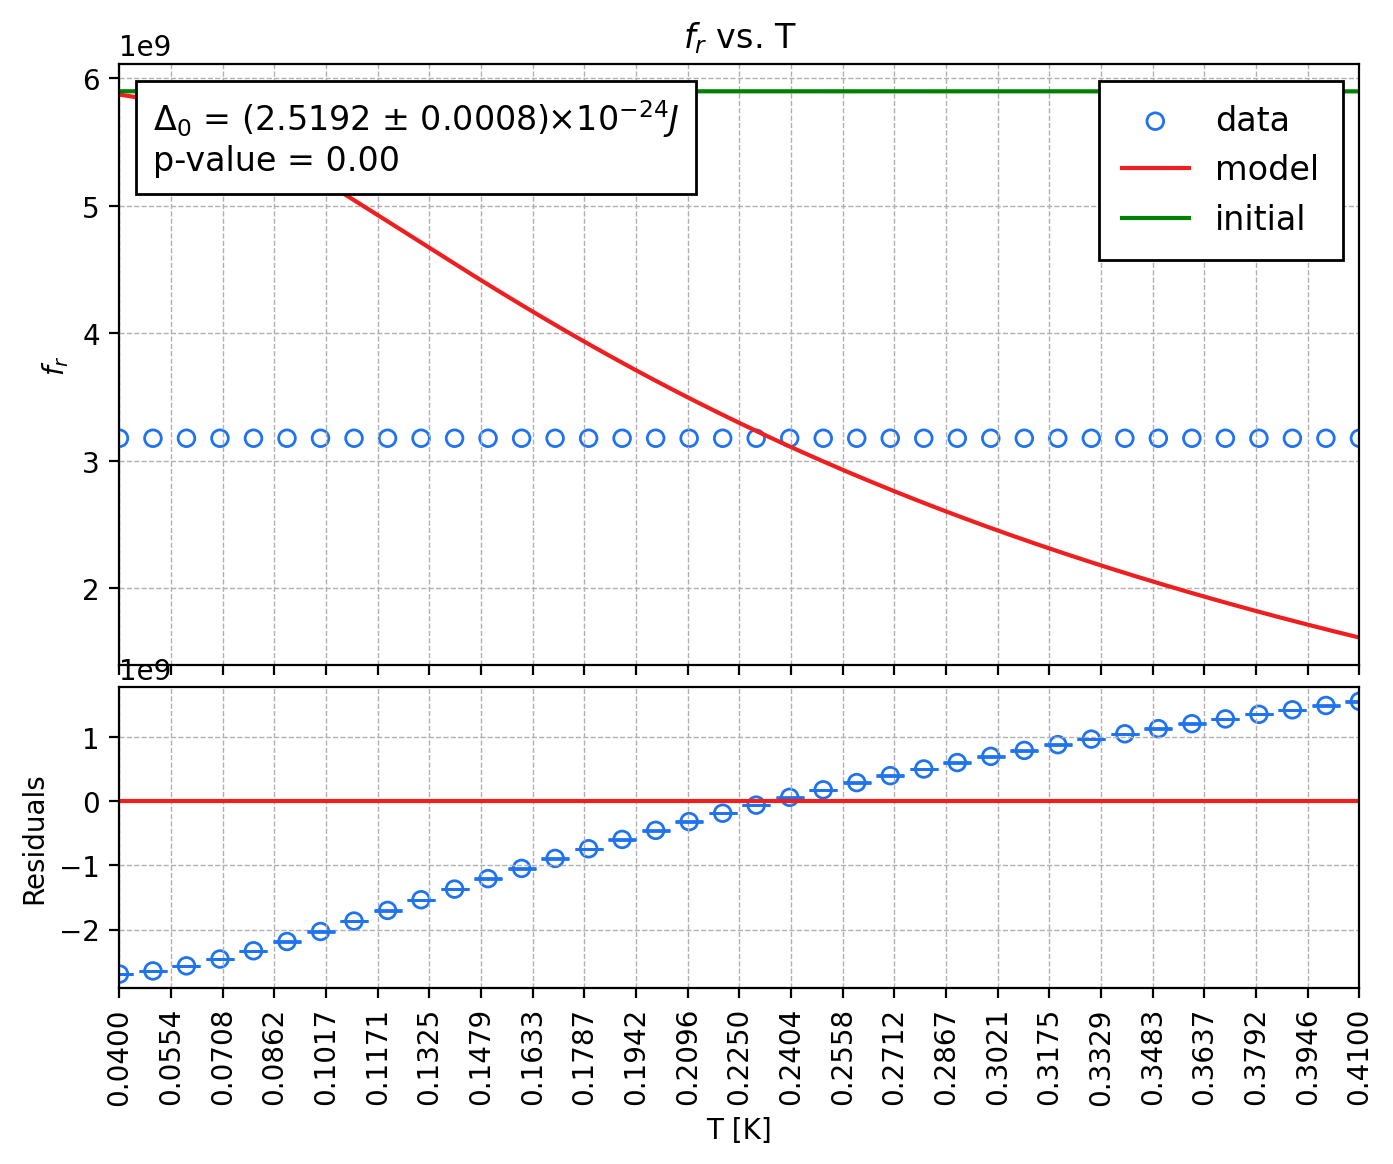
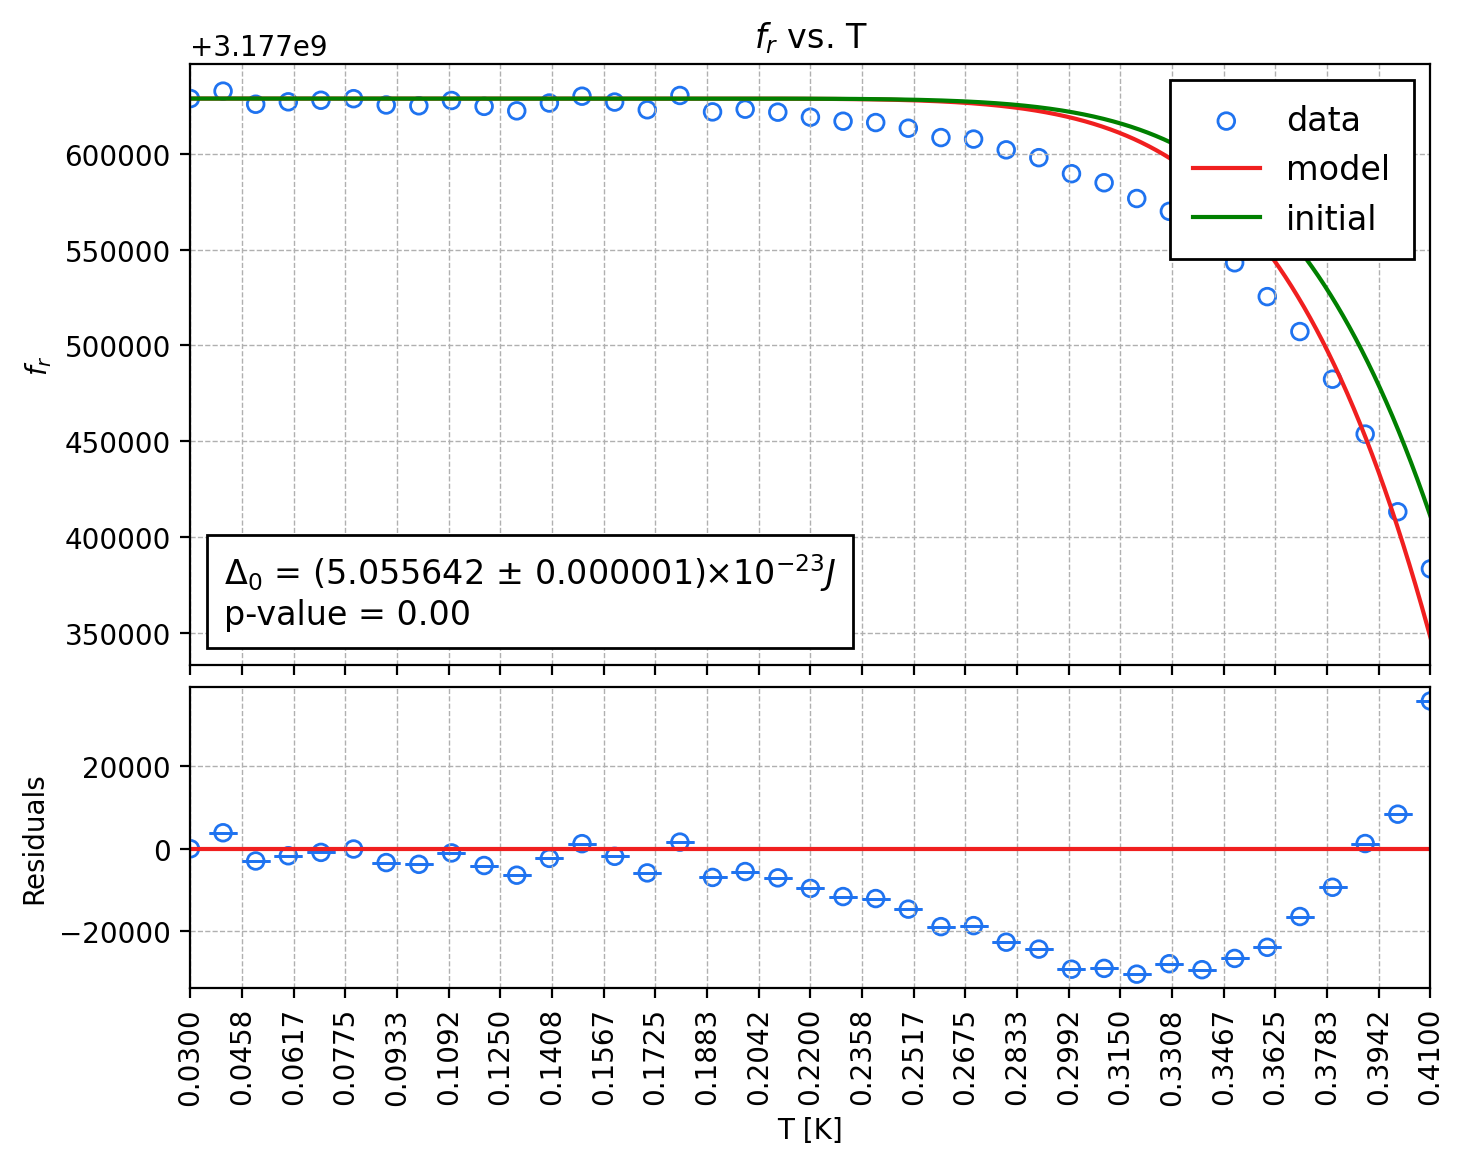
linear sampling + fit frequencies

diff --git a/3Dqubit/analysis/tangent_loss_vs_temp_fit.py b/3Dqubit/analysis/tangent_loss_vs_temp_fit.py
@@ -47,7 +47,12 @@ def model_tangent_loss(T, Delta0, alpha, Q_i0, Ts, f_rs):
 # https://arxiv.org/pdf/1709.10421
 def model_resonance_freqs(T, Delta0, alpha, f_r0, Ts, f_rs):
     f_r = f_rs[np.argmax(Ts == T)]
-    return f_r0 * (1 - 0.5*alpha * (s2(f_r, T, Delta0) - s2(f_r0, 0.01, Delta0) / s2(f_r0, 0.01, Delta0)))
+    # return f_r0 * (1 - 0.5*alpha * (s2(f_r, T, Delta0) - s2(f_r0, 0.01, Delta0)) / s2(f_r0, 0.01, Delta0))
+    return f_r0 * (1 - 0.5*alpha * abs(s2(f_r, T, Delta0) - s2(f_r0, 0.01, Delta0)) / s2(f_r0, 0.01, Delta0))
+
+def model_normalized_resonance_freqs(T, Delta0, alpha, f_r0, Ts, f_rs):
+    f_r = f_rs[np.argmax(Ts == T)]
+    return -0.5*alpha * abs(s2(f_r, T, Delta0) - s2(f_r0, 0.01, Delta0)) / s2(f_r0, 0.01, Delta0)
 
 
 fitted_freqs = np.array([])
@@ -115,14 +120,14 @@ for _ in range(0, N+1):
 
 alpha = 0.8 # kinetic inductance / total inductance
 
-'''
-# RESONANCE FREQUENCIES
 f_r0 = fitted_freqs[np.argmin(Ts)]
 
+'''
+# RESONANCE FREQUENCIES
 fitter = Fitter()
 fitter.datax = Ts
 fitter.datay = fitted_freqs
-fitter.sigmay = np.max(fitter.datay) * 0.001
+fitter.sigmay = np.max(fitter.datay) * 0 + 1
 fitter.title = "$f_r$ vs. T"
 fitter.labelx = "T [K]"
 fitter.labely = "$f_r$"
@@ -136,7 +141,27 @@ fitter.file_name = "..\\plots\\res_freqs_vs_temp_fit.png"
 res = fitter.plot_fit()
 '''
 
+# NORMALIZED RESONANCE FREQUENCIES
+fitter = Fitter()
+fitter.datax = Ts
+fitter.datay = (fitted_freqs - f_r0) / f_r0 
+fitter.sigmay = np.max(fitter.datay) * 0 + 0.001
+fitter.title = "$\\delta f_r/f_{r0}$ vs. T"
+fitter.labelx = "T [K]"
+fitter.labely = "$\\delta f_r/f_{r0}$"
+fitter.model = lambda T, Delta0: model_normalized_resonance_freqs(T, Delta0, alpha, f_r0, Ts, fitted_freqs)
+fitter.params = { "Delta0": (0, 0.52e-22, 1e-21) } # 1.5e-22 Joule = 1meV which is the typical Cooper pair energy
+fitter.param_units = { "Delta0": "J" } # Joule
+fitter.param_displayed_names = { "Delta0": "\\Delta_0" } # Joule
+fitter.show_plot = True
+fitter.show_initial_model = False
+fitter.show_model = True
+fitter.show_errorbars = False
+fitter.show_pvalue = False
+fitter.file_name = "..\\plots\\normalized_res_freqs_vs_temp_fit.png"
+res = fitter.plot_fit()
 
+'''
 # TANGENT LOSS
 fitted_Qis = (fitted_Qls * fitted_Qcs) / (fitted_Qcs - fitted_Qls)
 Q_i0 = fitted_Qis[np.argmin(Ts)]
@@ -155,3 +180,4 @@ fitter.param_displayed_names = { "Delta0": "\\Delta_0" } # Joule
 fitter.show_plot = True
 fitter.file_name = "..\\plots\\tangent_loss_vs_temp_fit.png"
 res = fitter.plot_fit()
+'''

diff --git a/3Dqubit/classes/Fitter.py b/3Dqubit/classes/Fitter.py
@@ -67,6 +67,8 @@ class Fitter():
     show_plot = False
     show_initial_model = False
     show_model = True
+    show_errorbars = True
+    show_pvalue = True
     file_name = ""
 
     def fit(self):
@@ -140,7 +142,8 @@ class Fitter():
         for key, par in res["params"].items():
             name = self.param_displayed_names[key] if key in self.param_displayed_names else key
             text += rf"${name}$ = ${number_to_text(par["value"], par["sigma"], self.param_units[key])}$" + "\n"
-        text += f"p-value = {res["pvalue"]:.2f}"
+        if self.show_pvalue: text += f"p-value = {res["pvalue"]:.2f}"
+        text = text.strip()
 
         xaxis_min, xaxis_max = first.get_xlim()
         yaxis_min, yaxis_max = first.get_ylim()
@@ -170,7 +173,7 @@ class Fitter():
         zeroy = np.zeros(len(self.datax))
         N = int(len(self.datax) / self.number_of_errorbars)
 
-        if N == 0:
+        if N == 0 and self.show_errorbars:
             second.errorbar(
                 scalex_pass(self.datax), 
                 residualsy, 
@@ -180,7 +183,7 @@ class Fitter():
                 fmt = '',
                 linestyle=''
             )
-        else:
+        elif self.show_errorbars:
             second.errorbar(
                 scalex_pass(self.datax[::N]), 
                 residualsy[::N], 

diff --git a/3Dqubit/utils/linear_sampling.py b/3Dqubit/utils/linear_sampling.py
@@ -1,1 +1,19 @@
-def linear_sampling(x, datax, datay):
+import numpy as np
+
+def linear_sampling(samplesx, datax, datay):
+    samplesy = samplesx * 0
+    for i, x in enumerate(samplesx):
+        just_before_index = np.argmax(np.where(datax < x, datax, float("-inf")))
+        just_after_index = np.argmin(np.where(datax > x, datax, float("inf")))
+        
+        if x in datax:
+            samplesy[i] = datay[np.argmax(datax == x)]
+        elif x <= np.min(datax):
+            samplesy[i] = datay[0]
+        elif x >= np.max(datax):
+            samplesy[i] = datay[-1]
+        else:
+            slope = (datay[just_after_index] - datay[just_before_index]) / (datax[just_after_index] - datax[just_before_index])
+            samplesy[i] = datay[just_before_index] + slope * (x - datax[just_before_index])
+
+    return samplesy

diff --git a/3Dqubit/scripts/test_linear_sampling.py b/3Dqubit/scripts/test_linear_sampling.py
@@ -1,0 +1,14 @@
+import matplotlib.pyplot as plt
+import numpy as np
+import sys; sys.path.append("../utils")
+from linear_sampling import linear_sampling
+
+datax = np.array([0, 1, 4, 2, 5, 6])
+datay = np.array([3, 6, 2, 8, 3, 4])
+samplesx = np.linspace(-2, 10, 100)
+
+fig = plt.figure()
+plt.scatter(datax, datay)
+plt.plot(samplesx, linear_sampling(samplesx, datax, datay))
+plt.grid()
+plt.show()

diff --git a/3Dqubit/README.md b/3Dqubit/README.md
@@ -48,6 +48,7 @@ git push
 - <https://github.com/Wheeler1711/submm_python_routines/blob/main/submm/demo/res_fit.ipynb>
 - <https://markimicrowave.com/>
 - [An analysis method for asymmetric resonator transmission applied to superconducting devices](https://arxiv.org/pdf/1108.3117)
+- [Materials loss measurements using superconducting microwave resonators](https://arxiv.org/pdf/2006.04718)
 
 # TODO
 - `VNA.py`:
